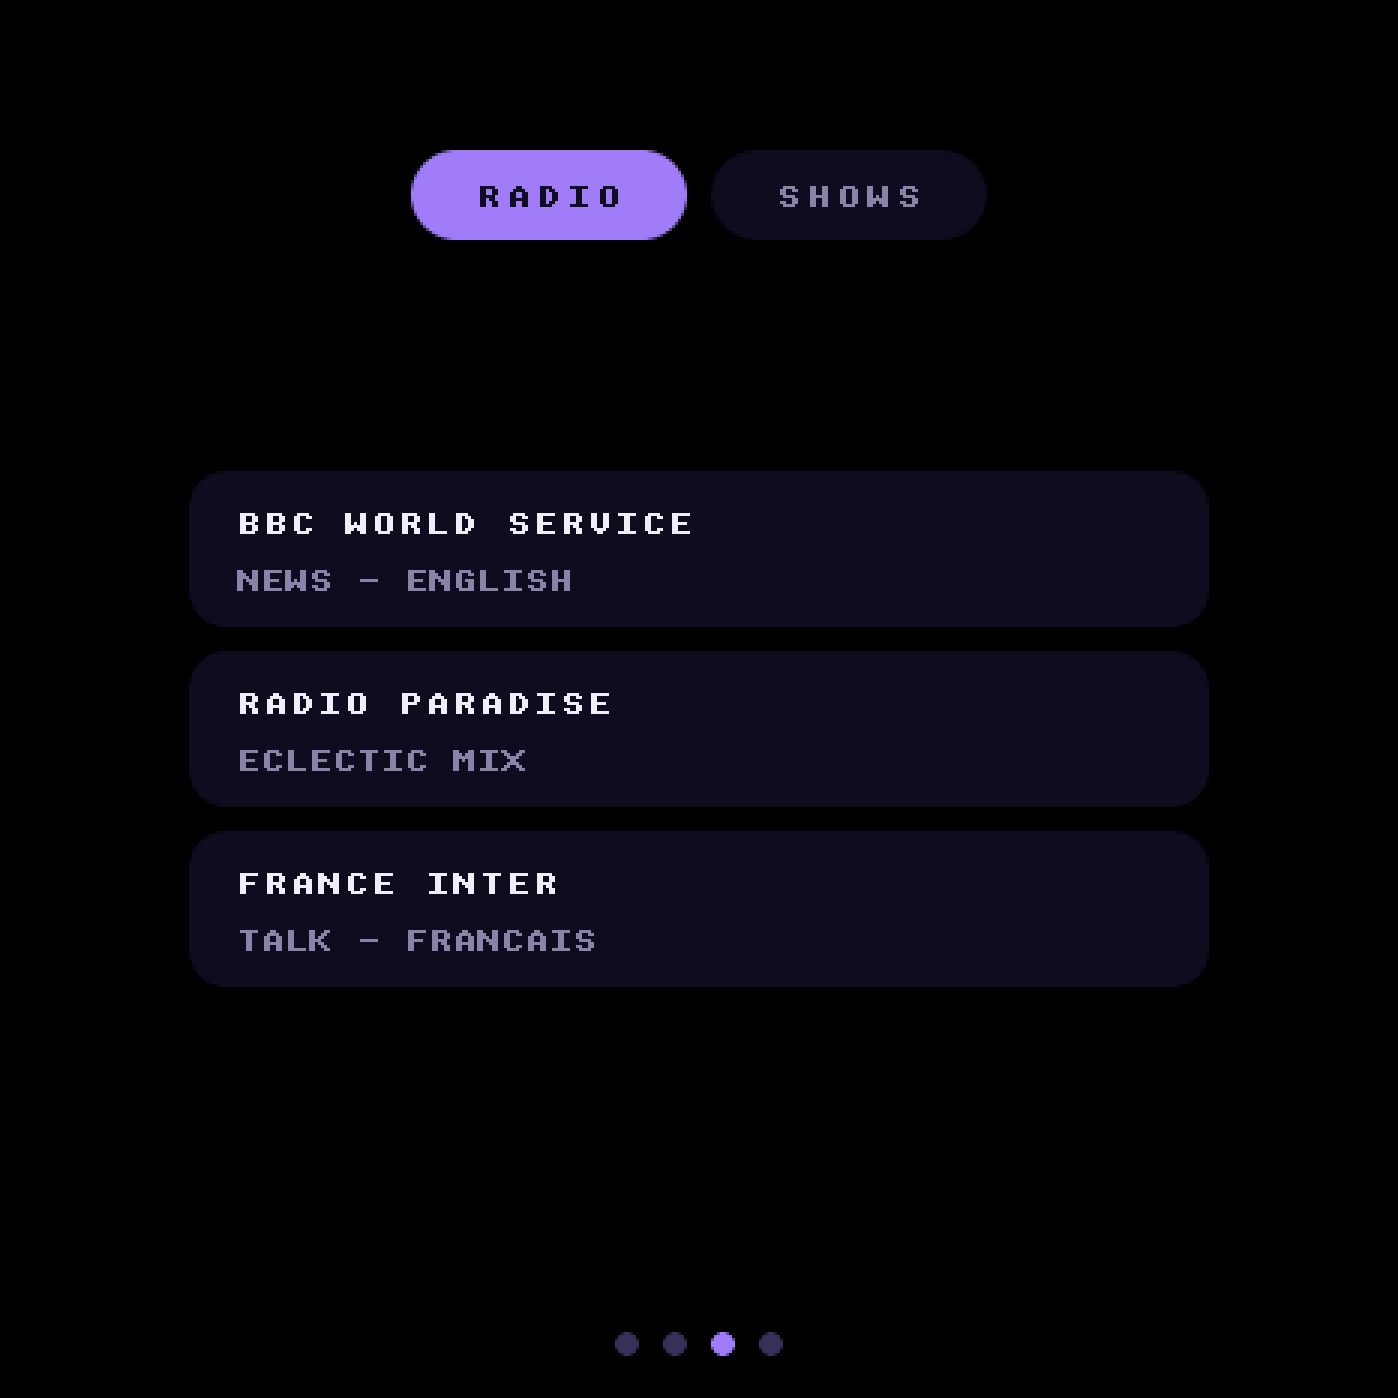
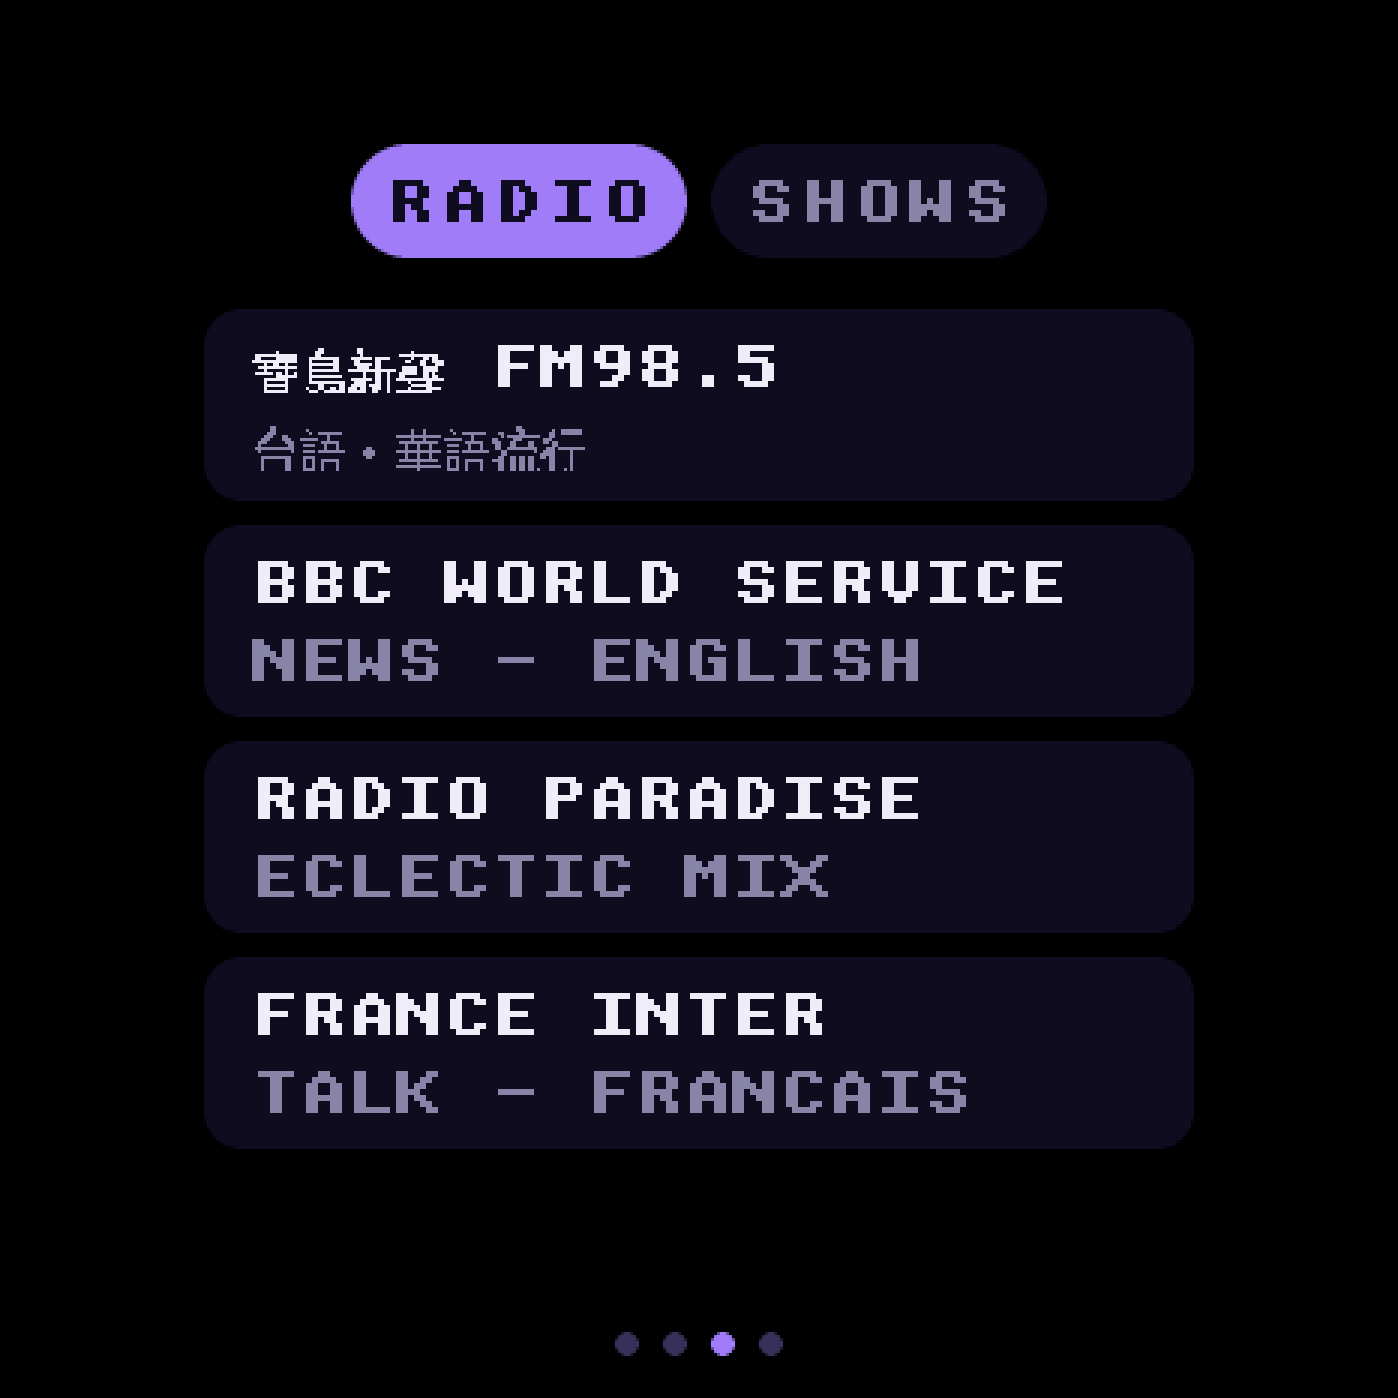
radio: a Taiwanese station, bigger type, and buttons that take a tap
Three things Rax asked for after using it on the board.

**The station list.** He asked for ICRT, 中廣, 飛碟, 好事 and 寶島新聲.
Only 寶島新聲 is MP3; it is in, first in the list. The other four are
reachable and healthy -- 200, with icy-metaint -- but ICRT, 中廣流行網,
中廣音樂網 and 飛碟 are all AAC on Triton/revma, and 好事聯播網 is HLS.
They need a decoder, not a different URL. plan/radio.md has the probe.

This also corrects an earlier finding: "ICRT can't be reached from this
network" was measured against live.leanstream.co, which 403s for
everyone. ICRT's actual stream answers 200 from here. The codec rules it
out, not the network.

**The type was too small.** It was unscii_8, 8 px. Everything is 16 px
now. The ceiling is the board's CJK fallback (Unifont, a 16 px cell), so
16 px is both floor and ceiling for anything that might not be ASCII --
and the station names are Chinese now. muse_page.h gains
muse_page_caption_font() so a page can reach the fallback font the UI
already builds, instead of drawing blanks with lv_font_unscii_16.
The bigger rows took the list from five to four.

**STOP and BACK worked only sometimes.** The tile is a tileview, which
scrolls: a press that drifts past the indev's scroll limit hands the
gesture to the tileview, the button gets PRESS_LOST, and CLICKED never
arrives. Clearing LV_OBJ_FLAG_SCROLL_CHAIN on the buttons and the toggle
pills keeps the press. The cost is that a swipe started on one of them
[…]

Changed region(s): [[0.123, 0.2153, 0.892, 0.8305], [0.2461, 0.0923, 0.4921, 0.1845], [0.5229, 0.0923, 0.769, 0.1845]]

diff --git a/esp32/components/muse_radio/muse_radio_page.c b/esp32/components/muse_radio/muse_radio_page.c
@@ -41,11 +41,19 @@
 #define COLOR_PANEL   0x140f22
 #define COLOR_WARN    0xffd060
 
-#define ROW_W 340
-#define ROW_H 52
-#define Y_TOGGLE (-168)
-#define PILL_W 92
-#define PILL_H 30
+/*
+ * Sizes are set by the CJK font: its cell is 16 px, so a station name in
+ * Chinese cannot be drawn smaller or larger than that, and the rows are built
+ * around it. Four rows fit at this height; a fifth would run off the round
+ * panel's edge.
+ */
+#define ROW_W 330
+#define ROW_H 64
+#define Y_TOGGLE (-166)
+#define PILL_W 112
+#define PILL_H 38
+#define BTN_W 180
+#define BTN_H 52
 
 static lv_obj_t *s_list_view, *s_player_view;
 static lv_obj_t *s_pill_radio, *s_pill_shows;
@@ -195,8 +203,9 @@ static lv_obj_t *pill(lv_obj_t *parent, const char *text, int16_t dx, bool shows
     lv_obj_t *p = panel(parent, PILL_W, PILL_H, PILL_H / 2);
     lv_obj_align(p, LV_ALIGN_CENTER, dx, Y_TOGGLE);
     lv_obj_add_flag(p, LV_OBJ_FLAG_CLICKABLE);
+    lv_obj_remove_flag(p, LV_OBJ_FLAG_SCROLL_CHAIN);   /* as the buttons, below */
     lv_obj_add_event_cb(p, on_pill, LV_EVENT_CLICKED, (void *)(intptr_t)shows);
-    lv_obj_t *l = label(p, &lv_font_unscii_8, COLOR_DIM, 0, 0);
+    lv_obj_t *l = label(p, &lv_font_unscii_16, COLOR_DIM, 0, 0);
     lv_obj_set_style_text_letter_space(l, 2, 0);
     lv_label_set_text(l, text);
     return p;
@@ -205,15 +214,24 @@ static lv_obj_t *pill(lv_obj_t *parent, const char *text, int16_t dx, bool shows
 static lv_obj_t *button(lv_obj_t *parent, const char *text, uint32_t color,
                         int16_t dy, lv_event_cb_t cb)
 {
-    lv_obj_t *b = panel(parent, 140, 40, 20);
+    lv_obj_t *b = panel(parent, BTN_W, BTN_H, BTN_H / 2);
     lv_obj_set_style_bg_color(b, lv_color_hex(COLOR_PANEL), 0);
     lv_obj_set_style_border_color(b, lv_color_hex(color), 0);
-    lv_obj_set_style_border_width(b, 1, 0);
+    lv_obj_set_style_border_width(b, 2, 0);
     lv_obj_set_style_border_opa(b, LV_OPA_COVER, 0);
     lv_obj_align(b, LV_ALIGN_CENTER, 0, dy);
     lv_obj_add_flag(b, LV_OBJ_FLAG_CLICKABLE);
+    /*
+     * The tile is a tileview, which scrolls. A press that drifts more than the
+     * indev's scroll limit hands the gesture to the tileview, the button gets
+     * PRESS_LOST and no CLICKED ever arrives -- which is why STOP and BACK
+     * worked only sometimes. Breaking the scroll chain at the button keeps the
+     * press. The cost is that a swipe *started on a button* no longer turns
+     * the page; starting it anywhere else still does.
+     */
+    lv_obj_remove_flag(b, LV_OBJ_FLAG_SCROLL_CHAIN);
     lv_obj_add_event_cb(b, cb, LV_EVENT_CLICKED, NULL);
-    lv_obj_t *l = label(b, &lv_font_unscii_8, color, 0, 0);
+    lv_obj_t *l = label(b, &lv_font_unscii_16, color, 0, 0);
     lv_obj_set_style_text_letter_space(l, 2, 0);
     lv_label_set_text(l, text);
     return b;
@@ -240,13 +258,12 @@ static void build_list(lv_obj_t *parent)
         lv_obj_add_flag(s_row[i], LV_OBJ_FLAG_CLICKABLE);
         lv_obj_add_event_cb(s_row[i], on_row, LV_EVENT_CLICKED, (void *)(intptr_t)i);
 
-        s_row_name[i] = label(s_row[i], &lv_font_unscii_8, COLOR_LIT, 0, -9);
-        lv_obj_align(s_row_name[i], LV_ALIGN_LEFT_MID, 16, -9);
-        lv_obj_set_style_text_letter_space(s_row_name[i], 1, 0);
+        s_row_name[i] = label(s_row[i], muse_page_caption_font(), COLOR_LIT, 0, -13);
+        lv_obj_align(s_row_name[i], LV_ALIGN_LEFT_MID, 16, -13);
         lv_label_set_text(s_row_name[i], st->name);
 
-        s_row_genre[i] = label(s_row[i], &lv_font_unscii_8, COLOR_DIM, 0, 10);
-        lv_obj_align(s_row_genre[i], LV_ALIGN_LEFT_MID, 16, 10);
+        s_row_genre[i] = label(s_row[i], muse_page_caption_font(), COLOR_DIM, 0, 13);
+        lv_obj_align(s_row_genre[i], LV_ALIGN_LEFT_MID, 16, 13);
         lv_label_set_text(s_row_genre[i], st->genre);
 
         s_row_mark[i] = label(s_row[i], &lv_font_unscii_16, COLOR_ACCENT, 0, 0);
@@ -258,32 +275,31 @@ static void build_list(lv_obj_t *parent)
     lv_obj_remove_flag(s_empty, LV_OBJ_FLAG_SCROLLABLE);
     lv_obj_set_size(s_empty, ROW_W, 120);
     lv_obj_align(s_empty, LV_ALIGN_CENTER, 0, 10);
-    lv_obj_t *l = label(s_empty, &lv_font_unscii_8, COLOR_DIM, 0, -12);
+    lv_obj_t *l = label(s_empty, &lv_font_unscii_16, COLOR_DIM, 0, -14);
     lv_obj_set_style_text_letter_space(l, 2, 0);
     lv_label_set_text(l, "NO SHOWS YET");
-    lv_obj_t *c = label(s_empty, &lv_font_unscii_8, COLOR_DIM, 0, 14);
-    lv_label_set_text(c, "PODCASTS COME AFTER RADIO");
+    lv_obj_t *c = label(s_empty, &lv_font_unscii_16, COLOR_DIM, 0, 16);
+    lv_label_set_text(c, "PODCASTS COME LATER");
     lv_obj_add_flag(s_empty, LV_OBJ_FLAG_HIDDEN);
 }
 
 static void build_player(lv_obj_t *parent)
 {
-    s_now_name = label(parent, &lv_font_unscii_16, COLOR_LIT, 0, -92);
-    lv_obj_set_style_text_letter_space(s_now_name, 1, 0);
-    s_now_genre = label(parent, &lv_font_unscii_8, COLOR_DIM, 0, -64);
+    s_now_name = label(parent, muse_page_caption_font(), COLOR_LIT, 0, -110);
+    s_now_genre = label(parent, muse_page_caption_font(), COLOR_DIM, 0, -80);
 
-    s_now_state = label(parent, &lv_font_unscii_8, COLOR_ACCENT, 0, -24);
+    s_now_state = label(parent, &lv_font_unscii_16, COLOR_ACCENT, 0, -34);
     lv_obj_set_style_text_letter_space(s_now_state, 3, 0);
 
     /* An ICY title is as long as the station feels like making it, so it
      * scrolls rather than widening the page. */
-    s_now_title = label(parent, &lv_font_unscii_8, COLOR_CAPTION, 0, 8);
-    lv_obj_set_width(s_now_title, 300);
+    s_now_title = label(parent, muse_page_caption_font(), COLOR_CAPTION, 0, 6);
+    lv_obj_set_width(s_now_title, 320);
     lv_label_set_long_mode(s_now_title, LV_LABEL_LONG_MODE_SCROLL_CIRCULAR);
     lv_obj_set_style_text_align(s_now_title, LV_TEXT_ALIGN_CENTER, 0);
 
-    button(parent, "STOP", COLOR_ACCENT, 62, on_stop);
-    button(parent, "BACK", COLOR_DIM, 112, on_back);
+    button(parent, "STOP", COLOR_ACCENT, 70, on_stop);
+    button(parent, "BACK", COLOR_DIM, 132, on_back);
 }
 
 static void build(lv_obj_t *tile)

diff --git a/esp32/components/muse_radio/muse_radio.c b/esp32/components/muse_radio/muse_radio.c
@@ -38,11 +38,15 @@ static const char *TAG = "radio";
 /*
  * Every URL here was checked by hand for a 200 and an `audio/mpeg`
  * Content-Type, because there is no AAC or Ogg decoder on the board and a
- * station that answers either would just be silence. plan/radio.md records
- * the measurement, the stations that failed, and why none of them is
- * Taiwanese.
+ * station that answers either would be silence with no explanation.
+ *
+ * Rax asked for five Taiwanese stations on 2026-11-05. Only this one is MP3:
+ * ICRT, 中廣流行網, 中廣音樂網 and 飛碟 are all AAC on Triton/revma, and
+ * 好事聯播網 is HLS. They are reachable and they send ICY metadata -- they
+ * need a decoder, not a different URL. plan/radio.md has the measurement.
  */
 static const muse_radio_station_t s_stations[] = {
+    { "寶島新聲 FM98.5", "台語・華語流行", "http://125.227.87.206:8000/FM98.5" },
     { "BBC WORLD SERVICE", "NEWS - ENGLISH", "https://stream.live.vc.bbcmedia.co.uk/bbc_world_service" },
     { "RADIO PARADISE",    "ECLECTIC MIX",   "https://stream.radioparadise.com/mp3-128" },
     { "FRANCE INTER",      "TALK - FRANCAIS", "https://icecast.radiofrance.fr/franceinter-midfi.mp3" },

diff --git a/esp32/components/muse/muse_page.h b/esp32/components/muse/muse_page.h
@@ -99,6 +99,16 @@ typedef struct {
 void muse_page_register(const muse_page_t *page);
 
 /*
+ * unscii-16 with the board's CJK fallback behind it, where the board builds
+ * one (CONFIG_MUSE_CJK_FONT). That fallback is a 16 px cell, so this is as
+ * large as CJK text can be drawn; ASCII-only chrome can go bigger on its own.
+ * A page showing text that may not be ASCII -- a station name, a city --
+ * should take this rather than &lv_font_unscii_16, or the glyphs come out
+ * blank.
+ */
+const lv_font_t *muse_page_caption_font(void);
+
+/*
  * The pages that got a tile, for the settings list to walk. Valid once the
  * screen is built; before that the count is zero.
  */

diff --git a/esp32/components/muse/muse_ui.c b/esp32/components/muse/muse_ui.c
@@ -618,6 +618,11 @@ static const lv_font_t *caption_font(void)
 #endif
 }
 
+const lv_font_t *muse_page_caption_font(void)
+{
+    return caption_font();
+}
+
 #if CONFIG_MUSE_CJK_FONT
 #define CJK_BAND_PAD 6          /* px each side of a CJK caption on a small screen */
 #define CJK_LINE_SPACE 4

diff --git a/plan/radio.md b/plan/radio.md
@@ -67,6 +67,22 @@ registered with `MUSE_PAGE` and `WHOLE_ARCHIVE`. Off with
 | `muse_radio.c` | the stream: HTTPS fetch, ICY demux, minimp3, resample, speaker |
 | `muse_radio_page.c` | the tile: toggle, list, player |
 
+**The type is sized by the CJK font.** Station names are Chinese now, and the
+board's CJK fallback (`CONFIG_MUSE_CJK_FONT`, Unifont) is a 16 px cell — so
+16 px is both the floor and the ceiling for anything that might not be ASCII.
+The page was built at `unscii_8`, which is why it read as too small; it is
+now 16 px throughout, which also forced the rows from 52 px to 64 px and the
+list from five rows to four. `muse_page_caption_font()` was added to
+`muse_page.h` so a page can reach the fallback font the UI already builds.
+
+**STOP and BACK broke the scroll chain.** The tile is a tileview, which
+scrolls. A press that drifts past the indev's scroll limit hands the gesture
+to the tileview; the button gets `PRESS_LOST` and `LV_EVENT_CLICKED` never
+arrives — which is exactly "sometimes not working when clicked". Clearing
+`LV_OBJ_FLAG_SCROLL_CHAIN` on the buttons and the toggle pills keeps the
+press on the button. The cost is that a swipe *started on* one of them no
+longer turns the page.
+
 **Radio only.** SHOWS is the empty state the toggle was chosen to make
 possible — "NO SHOWS YET / PODCASTS COME AFTER RADIO". Nothing moves when the
 RSS half arrives.
@@ -120,9 +136,8 @@ second of both at once at the start of a talk press.
   those two routes specifically are refused. [vm-config.md](vm-config.md) has
   the measurement and the code is on `feat/vm-config` — *(how: a bench build
   on the board, over a live session)*.
-- **Only three of eight candidate streams are usable, and none is
-  Taiwanese.** Every URL was checked with `curl -I -H 'Icy-MetaData: 1'`
-  before any was compiled in:
+- **Only three of eight first-pass candidate streams were usable.** Every URL
+  was checked with `curl -I -H 'Icy-MetaData: 1'` before any was compiled in:
 
   | Stream | Code | Content-Type | `icy-metaint` |
   |---|---|---|---|
@@ -135,14 +150,37 @@ second of both at once at the start of a talk press.
   | **ICRT** | **403** | text/html | — |
   | Radio.co (revma) | 302 → 200 | audio/aac | 16000 |
 
-  Three things follow. AAC and Ogg are common and there is no decoder for
-  either, so the table is MP3-only and the page checks Content-Type. **ICRT
-  403s from this network**, and the gadget is on the same Wi-Fi, so shipping
-  it as a default would ship a station that cannot work — the Taiwanese
-  stations are absent for that reason, not by choice. And ICY metadata is
-  real but not universal: France Inter sends none, so the now-playing line
-  has to be empty rather than guessed — *(how: `curl` from this machine,
-  2026-11-05)*.
+  Two things follow. AAC and Ogg are common and there is no decoder for
+  either, so the table is MP3-only and the page checks Content-Type. And ICY
+  metadata is real but not universal: France Inter sends none, so the
+  now-playing line has to be empty rather than guessed — *(how: `curl` from
+  this machine, 2026-11-05)*. The ICRT line here is superseded by the
+  finding below: that was the wrong URL.
+- **Four of the five Taiwanese stations Rax asked for need a decoder this
+  board does not have.** Asked on 2026-11-05 for ICRT, 中廣, 飛碟, 好事 and
+  寶島新聲 as the defaults. Every one was looked up in the
+  [radio-browser](https://www.radio-browser.info/) directory and then probed
+  directly:
+
+  | Station | Code | Format | Usable today |
+  |---|---|---|---|
+  | 寶島新聲 FM98.5 | 200 | **audio/mpeg**, 64 kbps | **yes** |
+  | ICRT | 302 → 200 | audio/aac | no decoder |
+  | 中廣流行網 | 302 → 200 | audio/aac | no decoder |
+  | 中廣音樂網 | 302 → 200 | audio/aac | no decoder |
+  | 飛碟電台 | 302 → 200 | audio/aac | no decoder |
+  | 飛碟 南台灣之聲 | 200 | audio/aac | no decoder |
+  | 好事聯播網 港都983 | 200 | `application/vnd.apple.mpegurl` | HLS, not a stream |
+
+  The four AAC ones are **reachable and healthy** — they answer 200 and send
+  `icy-metaint: 16000`. They need an AAC decoder, not a different URL. 好事
+  needs an HLS client as well, which is a protocol rather than a codec.
+  Only 寶島新聲 is in the firmware — *(how: `curl -L` with the firmware's own
+  user agent, 2026-11-05)*.
+- **The earlier "ICRT can't be reached from this network" was wrong.** It was
+  measured against `live.leanstream.co`, which 403s for everyone. ICRT's
+  Triton/revma stream answers 200 from here. What rules ICRT out is the
+  codec, not the network.
 - **Rebuffering is not an edge case.** A 16 kHz stream over a weak link
   stalls; this board logged `rssi -86` and three join attempts on an ordinary
   evening. The stalled state is drawn because it will be seen often: the
@@ -163,6 +201,11 @@ second of both at once at the start of a talk press.
 
 ## Open questions
 
+- **An AAC decoder?** It is the one thing standing between this page and the
+  stations Rax actually wants. `espressif/esp_audio_codec` is on the
+  component registry (2.6.2) and decodes AAC, but it is a binary component
+  under Espressif's own licence, and it would mean a second decode path and
+  following the 302 that Triton answers with. Not started; Rax's call.
 - **The 1 Hz handover to Muse.** A talk press and the radio overlap for up to
   a second. Cheap to fix properly by hooking the press rather than polling the
   mode, if it grates in use.
